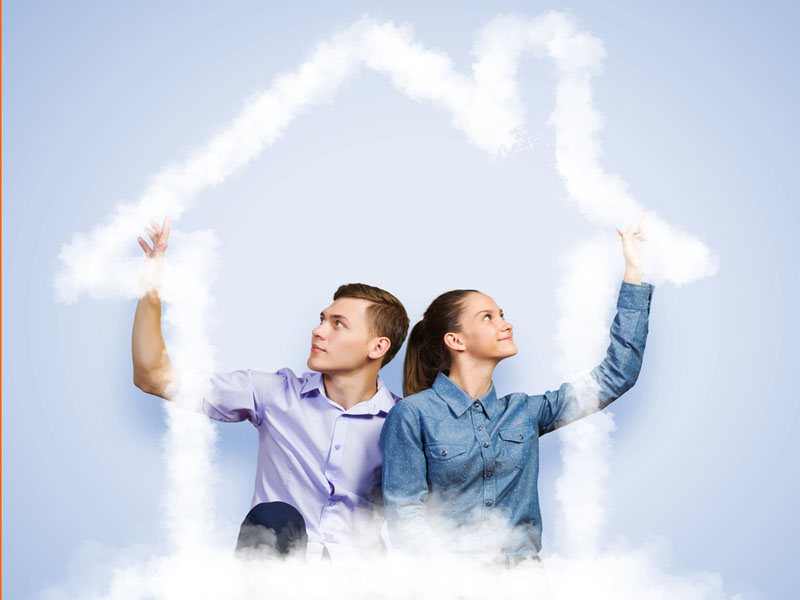
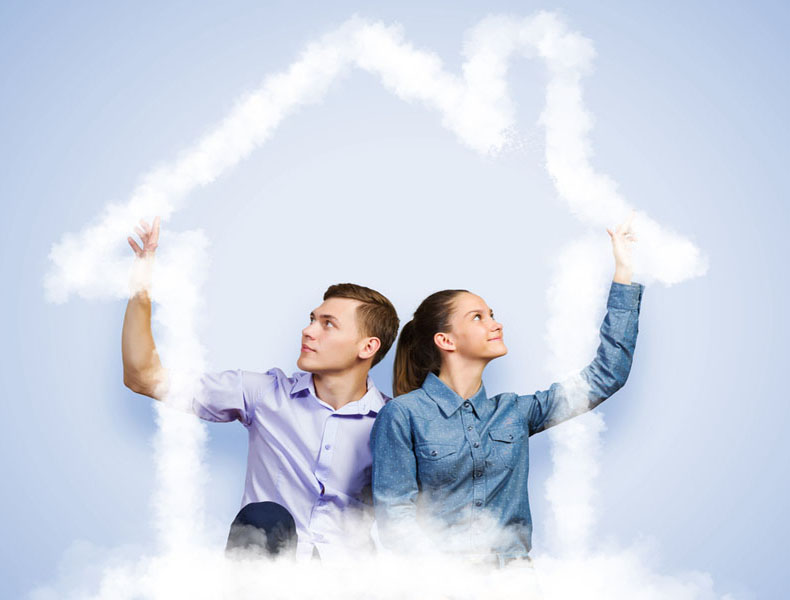
update home equity images

diff --git a/loans.html b/loans.html
@@ -69,7 +69,7 @@
             </div><!-- row -->
             <div class="row spacer">
               <div class="col-md-6">
-                <a href="loans.html#disclosure"><img class="picture" src="img/heloc-web-800x600.jpg" alt="Home Equity Special Offer">
+                <a href="loans.html#disclosure"><img class="picture" src="img/homeequity.jpg" alt="Home Equity Loan">
               </div>
               <div class="col-md-6">
                 <a class="anchor" name="homeequity"><h2>Home Equity</h2></a>
@@ -146,11 +146,6 @@
                 <p>Existing cardholders may click <a href="https://www.myaccountaccess.com/onlineCard/login.do" class="alertexit">here</a> to access their accounts.</p>
               </div>
             </div><!-- row -->
-            <div class="row spacer">
-              <div class="col-md-12">
-                <p><a class="anchor" name="disclosure"><b>Home Equity Line of Credit: </b></a>*Annual Percentage Rate (APR) effective 1/1/17. Applications taken through 6/30/17 and closed by 8/31/17 guaranteed advertised rate. **Closing fees waived for home equity lines of credit up to $100,000 and range from $400-$2,000 for loans $100,000 or greater. Minimum loan amount $5,000. Offer available for owner occupied residences only and are subject to credit approval. Advertised rate applies to new home equity credit accounts and not available for refinancing of existing CIBM Bank accounts. Property insurance and flood insurance (if applicable) required. Rate after six months will vary and is based on credit history and tied to Prime. Non promotional rates as of 1/1/17 vary from 4.00%-18% APR. Maximum APR will not exceed 18%. Early termination fee of $250 will be assessed if credit line is closed within 24 months. (Early termination may not be applicable in all states.) †Consult a tax advisor regarding the deductibility of interest. All terms and conditions of this offer are subject to change at any time without notice. Under certain circumstances access to credit can be frozen, reduced or terminated.</p>
-              </div>
-            </div><!--row -->
           </div>
         </main>
 

diff --git a/index.html b/index.html
@@ -26,15 +26,12 @@
                             <li data-target="#homepage-feature" data-slide-to="0" class="active"></li>
                             <li data-target="#homepage-feature" data-slide-to="1"></li>
                             <li data-target="#homepage-feature" data-slide-to="2"></li>
-                            <li data-target="#homepage-feature" data-slide-to="3"></li>
+                            <!-- <li data-target="#homepage-feature" data-slide-to="3"></li> -->
                         </ol>
                         <!-- Wrapper for slides -->
                         <div class="carousel-inner">
                           <div class="item active">
                             <a href="savings.html#moneymarket"><img src="img/MM-CD_Carousel_Marine.jpg" alt="Money Market Special Offer"></a>
-                          </div>
-                          <div class="item">
-                            <a href="loans.html#homeequity"><img src="img/heloc-carousel.jpg" alt="Home Equity Special Offer"></a>
                           </div>
                           <div class="item">
                             <a href="acceleration.html"><img src="img/accelerationcarousel-2.jpg" alt="Personal Banking"></a>
